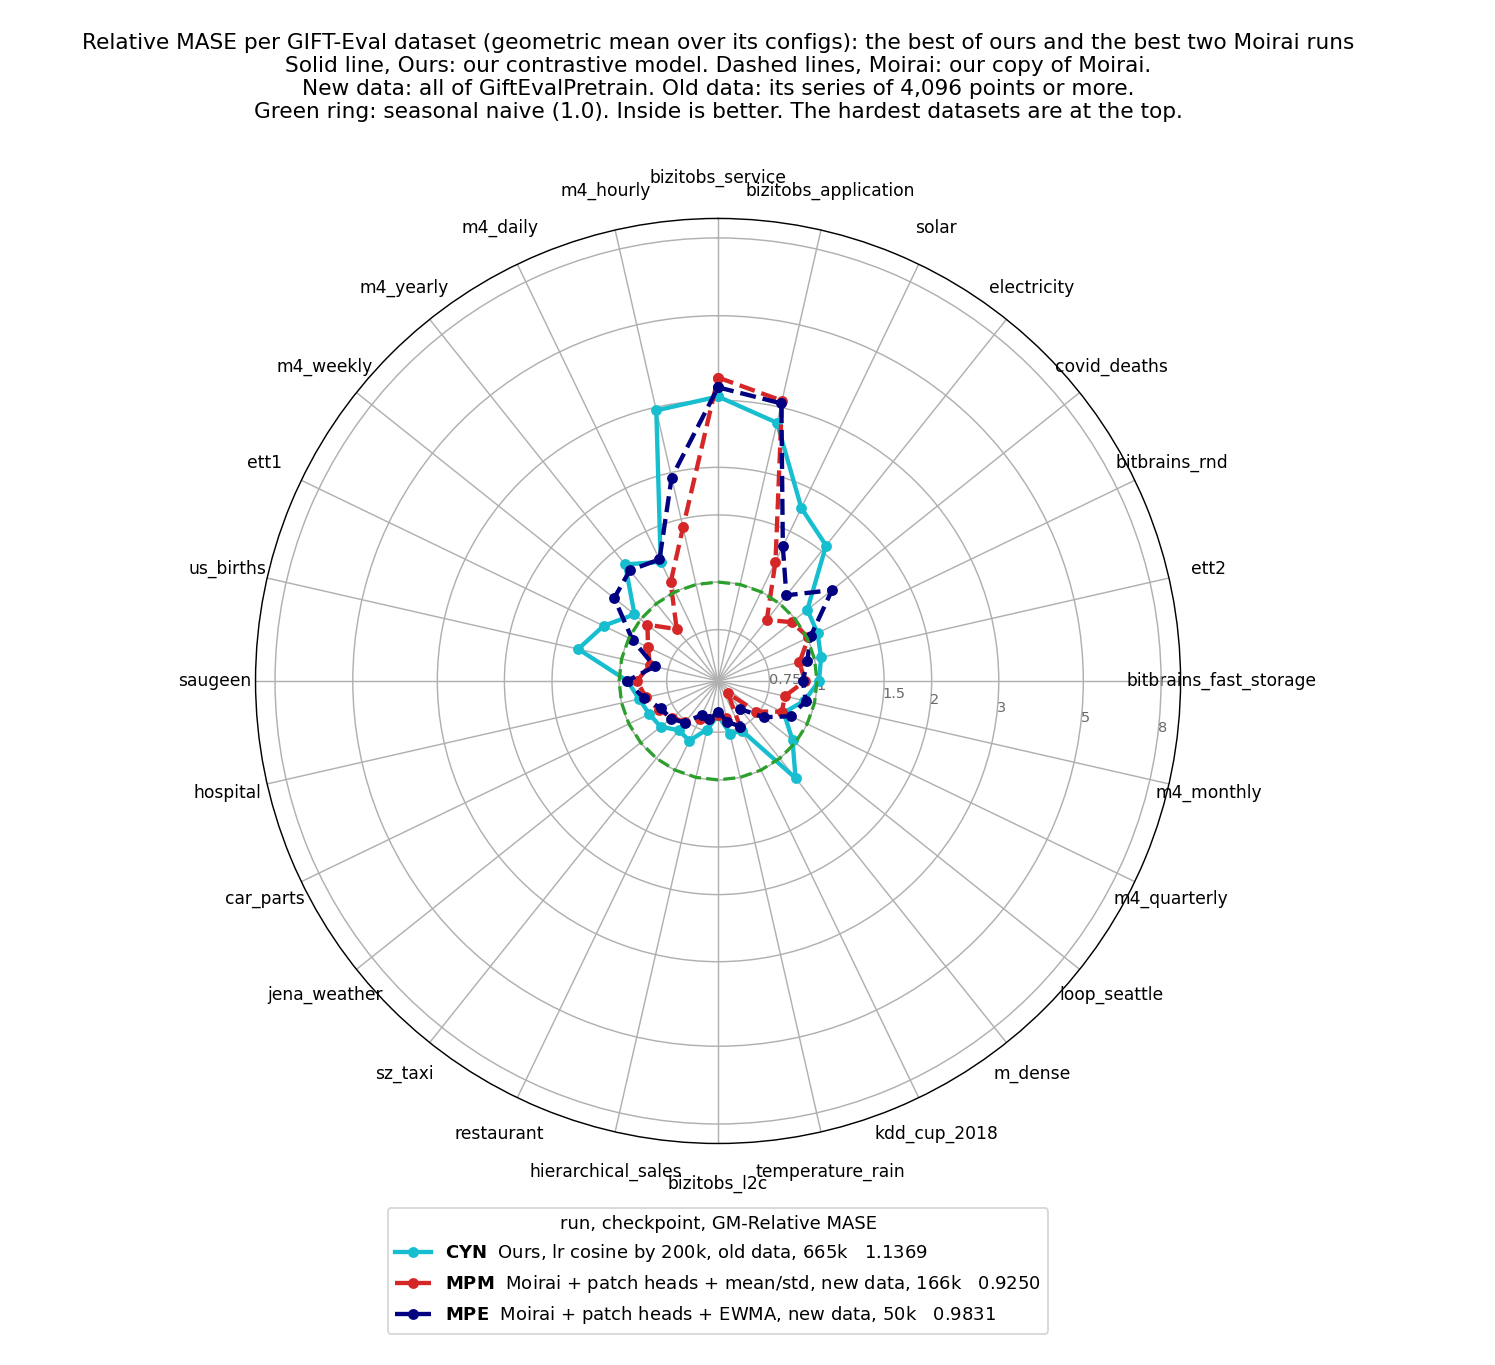
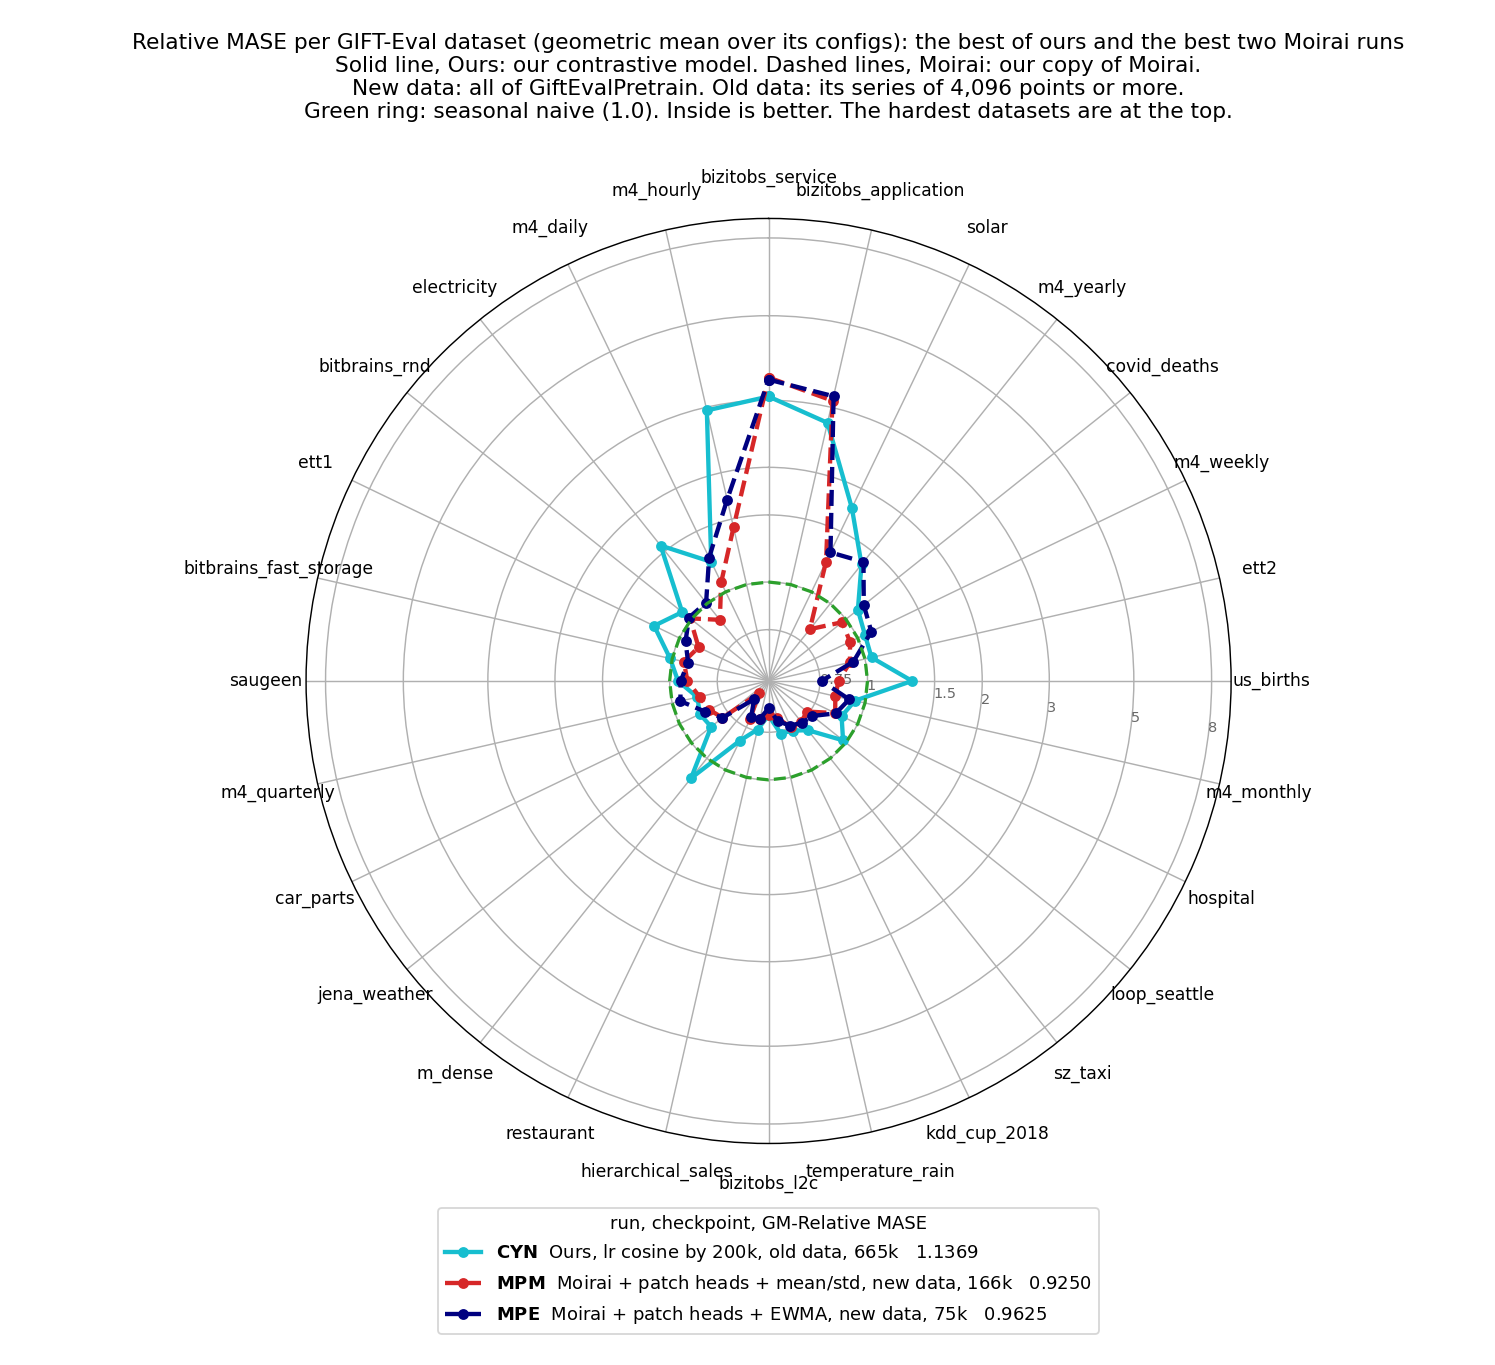
exp(#412): MPE (#421ew) scores 0.9625 at 75k
The radar of the best three runs shows MPE at 75k.

diff --git a/reports/2026-09-06_moirai_small_size/scripts/plot_radar_best3.py b/reports/2026-09-06_moirai_small_size/scripts/plot_radar_best3.py
@@ -10,8 +10,8 @@ ARMS = [("cyan665", tagged(CYN, "Ours, lr cosine by 200k, old data, 665k   1.136
         ("moirai421f_native166k",
          tagged("cf421f_moirai_native", "Moirai + patch heads + mean/std, new data, 166k   0.9250"),
          colour("cf421f_moirai_native"), MOIRAI),
-        ("moirai421ew_native50k",
-         tagged("cf421ew_moirai_native", "Moirai + patch heads + EWMA, new data, 50k   0.9831"),
+        ("moirai421ew_native75k",
+         tagged("cf421ew_moirai_native", "Moirai + patch heads + EWMA, new data, 75k   0.9625"),
          colour("cf421ew_moirai_native"), MOIRAI)]
 TITLE = ("Relative MASE per GIFT-Eval dataset (geometric mean over its configs): "
          "the best of ours and the best two Moirai runs\n"
